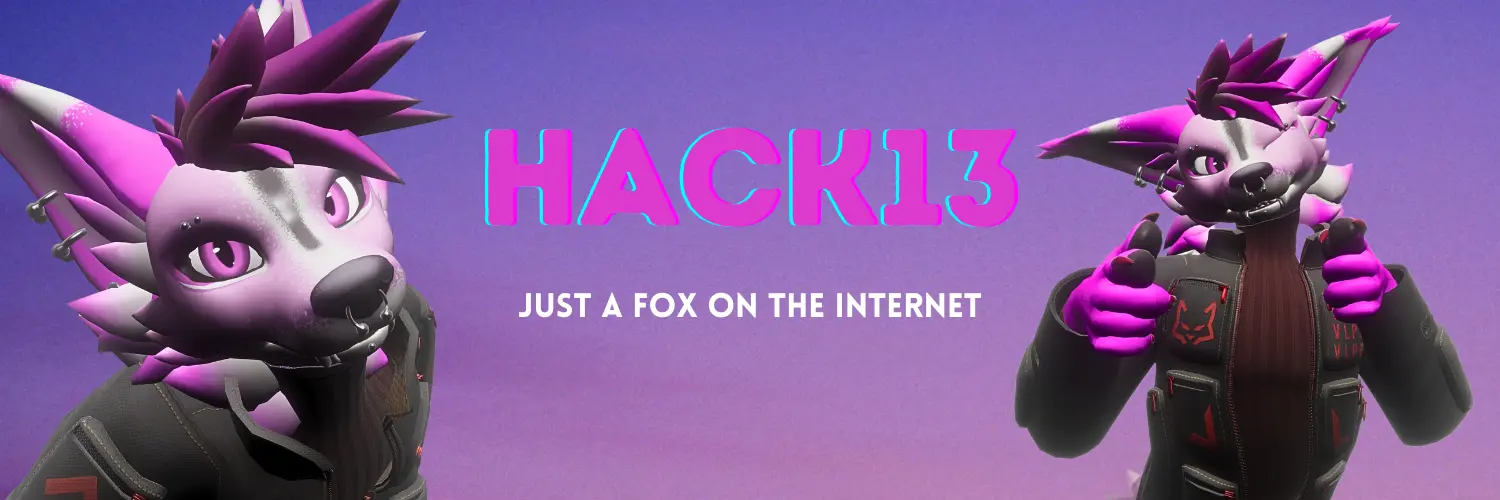
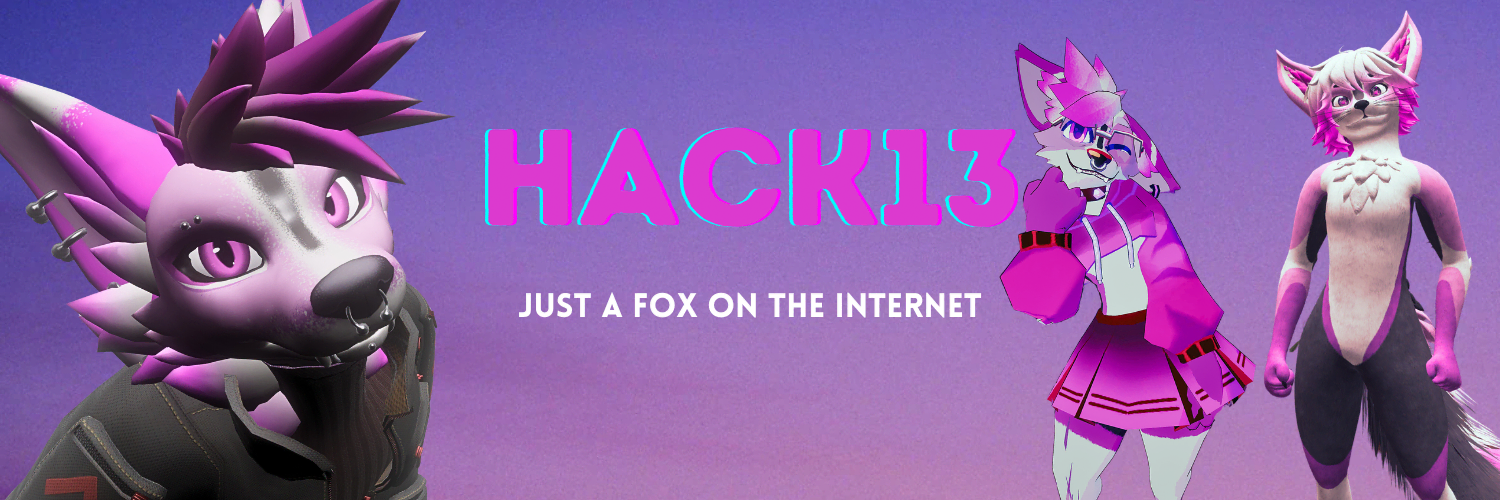
Adding header change + new post

Changed region(s): [[0.4907, 0.03, 1.0, 1.0], [0.3067, 0.24, 0.4907, 0.45], [0.46, 0.24, 0.4907, 0.3]]

diff --git a/src/data/blog/2026-07-29-common-ground-is-lost.md b/src/data/blog/2026-07-29-common-ground-is-lost.md
@@ -1,0 +1,34 @@
+---
+title: Common Ground is Lost
+description: So I have been reading a lot of stuff online lately, and feeling the age verification arguments with the concerns over privacy, having to prove your age stuff. There is a lot to dig into here, and I feel it is important to kind of share my...
+tags: [Personal, Opinion]
+published: 2026-07-29T10:45:00.000Z
+url: /2026/07/common-ground-is-lost
+category: Opinion
+audioUrl: https://ovh-va.hack13.download/blog-audio/article-jul-29-26.mp3
+draft: false
+---
+
+So, more than ever, it has become clear to me that I need to disconnect from the news and internet feeds. This is because, while I know it to be true, it has become even more toxic, as people are doubling down on trying to escape into the internet realm, and, sadly, their mob mentality is stronger because people are less likely to research or accept nuance.
+
+Before I jump too deeply into this, I want to take a step back and remind people that it's completely alright to have different opinions and worldviews. In fact, I think that is what makes us better people. Being able to listen to others' thoughts and opinions on things is important. This way, we can gain a better understanding and realize how people can live with different opinions. That said, there are moral grounds, and I understand and respect those who wish to stand on their morals.
+
+## Linux Community
+I have recently been re-engaging with the Linux community and have been realizing there are major issues, from the outside in, that I have ignored for years. Look, I've been a Linux user since I was like 12 years old, and that is saying a lot, considering I am now 34 as of writing this. In that time, I agree the community has always been extremely opinionated. While I do appreciate that about the community... it has caused some issues that I think need better behavior.
+
+I have noticed for a long time now that people tend to be very gatekeeping when it comes to things in the Linux community. In my opinion, this has been one of the major reasons that have really hurt the community in the early days. I will say I am happy to see such a resurgence in diverse communities adopting Linux. With that said, that does come with communities that are less than pleasant to work with. That said, I think that is one of our key strengths, allowing folks to build what they prefer and create different standards. It does also speak to certain technologies breaking through, but people always forking and maintaining their own ways if they want.
+
+I find it annoying how people dog on systemd compared to other init systems. Personally, I think it has been a great change, and I see why so many distributions have moved to adopt it. The drama that tends to flare up here and there always seems to be either misunderstandings, like the age field being added, or no actual age verification functionality. Then the more recent drama around it being a "possible" new hook for Flatpaks going forward. I get people's passion; we all have it when we grow attached to things. You can fork and keep things the way they are for you, but eventually, the actual users who are not tied to social media and want things to work will adopt whatever works best for them.
+
+I am just wishing that, rather than people being so toxic and blowing up on people without fully understanding the topics, they would just read or listen to headlines/highlights and not realize things are current discussions. Secondly, if you actually care about how things work... perhaps get involved more. I know that is hard, with many of us, myself included, just exhausted and overworked... That said, take to places for official project communication, be respectful, and describe your concerns to the development team so they can respond without feeling attacked. Because when we don't take this step back and are respectful... this is how we lose amazing developers/contributors to projects, because people attack without trying to be respectful. Remember, you are using something someone has volunteered to maintain and build... even if you donated a chunk of money to them here or there... You gotta remember that doesn't entitle you to demand things.
+
+## Furry Drama
+Much like the Linux community, I notice ongoing cycles in the Furry community that I have been part of for years. Where people often feel so nervous about saying or doing things, for fear of being attacked or pushed over the edge. That said, if you actually go to a convention or hang out with the actual people, even in more relaxed online spaces (aka not X, TikTok, Twitch, etc.), but in more communal spaces like VR or Discord channels. You will realize everyone is just people, and they want to be people.
+I have found myself making lots of new friends and folks when I started making a tiny bit of content when I have a second. Some people, yeah, do let stuff go to their heads... but that isn't just the furry community; it's anyone who ends up gaining some following. The thing I am realizing is that online echo chambers seem to keep causing this divide. It is one of the big reasons, I like using platforms that don't use algorythms to force us down into these echo-chambers and then we are impressionable and then end up latching onto the things people we like say and follow and get shoveled stuff that keeps us going down that rabbit hole... and well the sad thing is you see there is a lot of the resurgence in the drama of different niche kinks that people find distasteful or even try to link directly to things they may consider abnormal.
+
+Just to be clear, I do agree there are some major issues in the fandom towards things like drug use, misogyny, heterophobia, and even grooming. I don't want to say that it doesn't happen because I have been to cons, I have several friends who are straight, and know of friends who were groomed as minors. These things are not ok, and should be called out! No, however about it... If you see someone being a dick to women or straight folks, someone engaging with minors inappropriately, or people messing around with hard substances they are not prescribed... CALL THAT SHIT OUT!!! Do it ethically, do it to the person's face, not their back, and don't take it to social media; that can cause a person to end their life if you've gotten it wrong.
+
+I am just getting really tired of the behavior of people around here who try to ruin others' lives without knowing the full story. Also, it isn't your place to do a call-out piece on social media, as they often end up getting the person more attention, which can boost people willing to go learn their side, where they can manipulate back even if you have evidence. What you should do is focus on talking to them directly, get your facts straight, and yes, if that doesn't work and they continue... as much as I hate saying it... go through the proper legal channels and not go to social media, but let others you personally know who are interacting know your "personal experience," not what someone else told you. It is scientifically proven that every time someone repeats a story, details change.
+
+## Conclusion
+I have a lot more I wanna say, but I have been holding back this blog post for some time now, so I think I need to finish up this one and work on another later with more details. However, I am not opposed and always open to hearing your feedback. I am on the Fediverse at @hack13@cyberfurz.social, which is bridged to Bluesky. You can message @hack13.one there, and it will go to my Mastodon, where I will see it.
